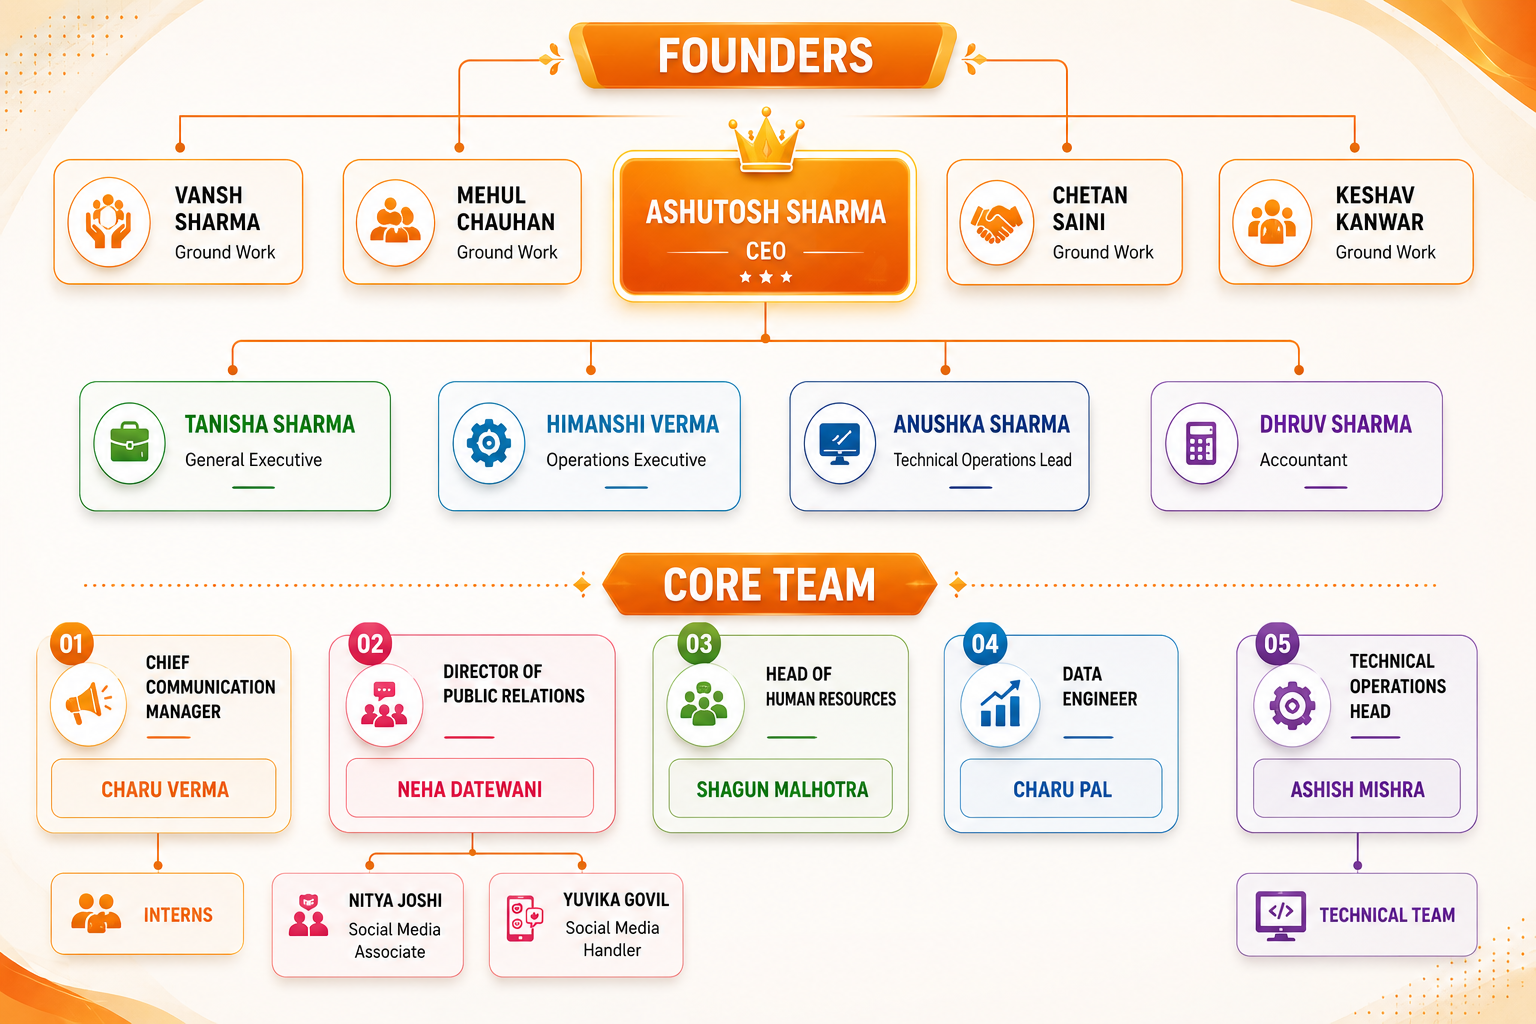
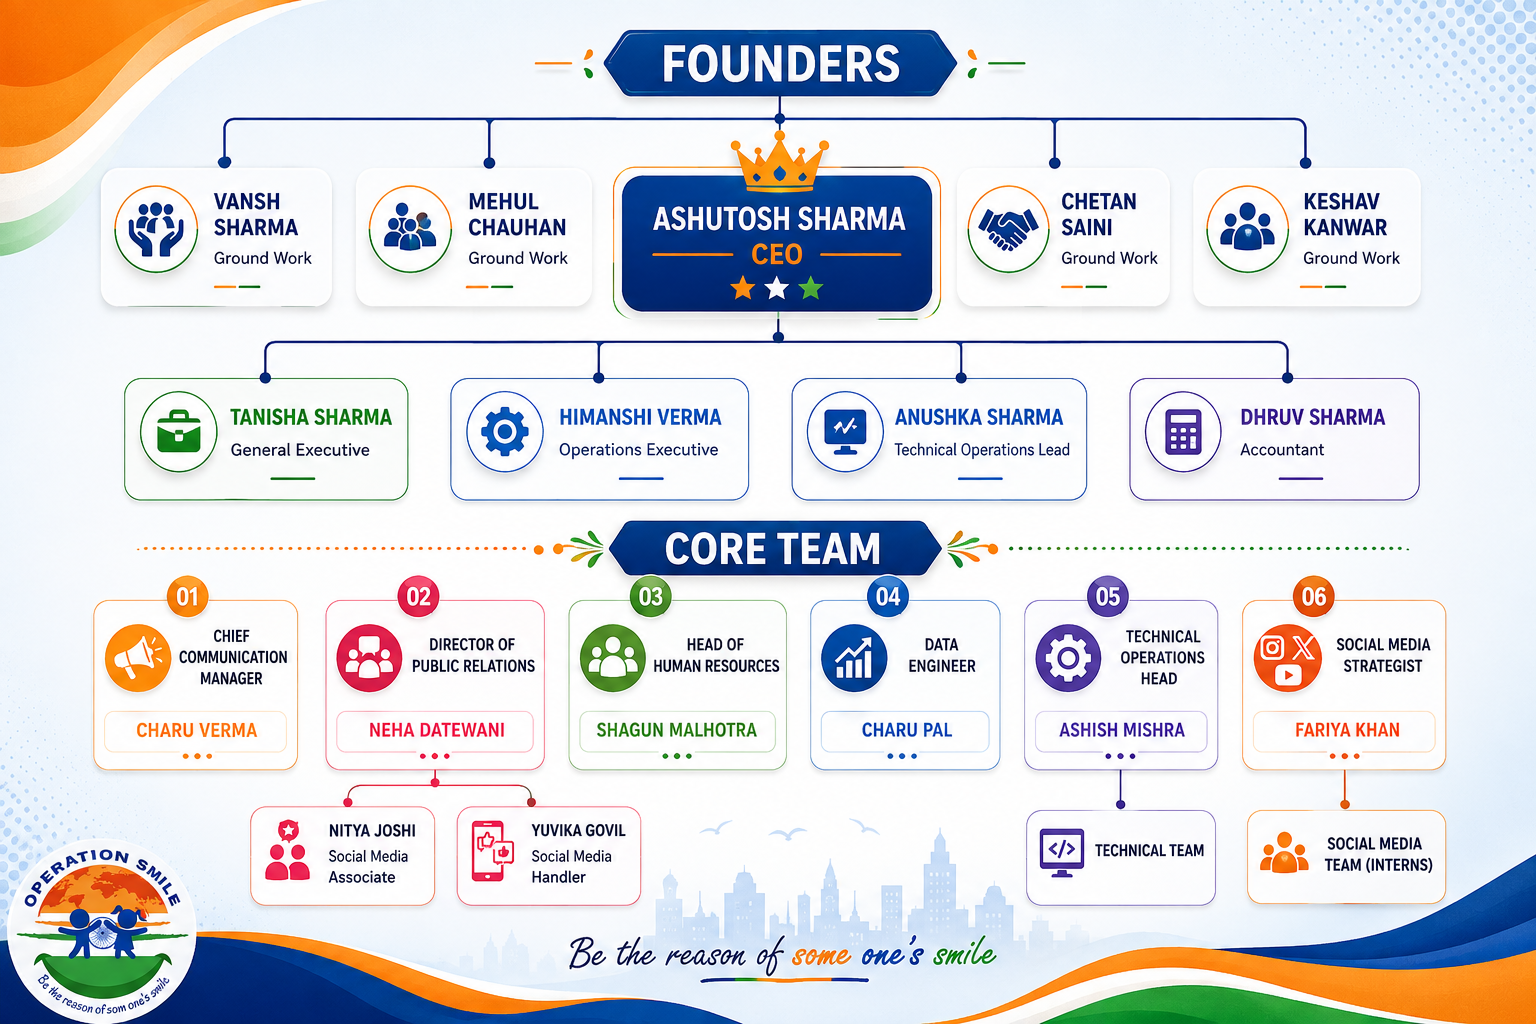
FariyaKhan Profile Added

diff --git a/about-us.html b/about-us.html
@@ -2306,6 +2306,17 @@
         <div class="slider-container" data-aos="fade-up" data-aos-delay="100">
           <div class="team-slider">
             <!-- First Set -->
+             <div class="team-member">
+              <img
+                src="assets/TeamMembers/FariyaKhan.jpeg"
+                alt="Fariya Khan"
+                onerror="
+                  this.src = 'https://via.placeholder.com/140x140?text=CV'
+                "
+              />
+              <h5>Fariya Khan</h5>
+              <h6>Social Media Strategist</h6>
+            </div>
             <div class="team-member">
               <img
                 src="assets/TeamMembers/CharuVerma.jpeg"
@@ -2417,6 +2428,17 @@
               <h6>Technical Operations Head</h6>
             </div>
             <!-- Duplicate Set for Seamless Loop -->
+             <div class="team-member">
+              <img
+                src="assets/TeamMembers/FariyaKhan.jpeg"
+                alt="Fariya Khan"
+                onerror="
+                  this.src = 'https://via.placeholder.com/140x140?text=CV'
+                "
+              />
+              <h5>Fariya Khan</h5>
+              <h6>Social Media Strategist</h6>
+            </div>
             <div class="team-member">
               <img
                 src="assets/TeamMembers/CharuVerma.jpeg"
